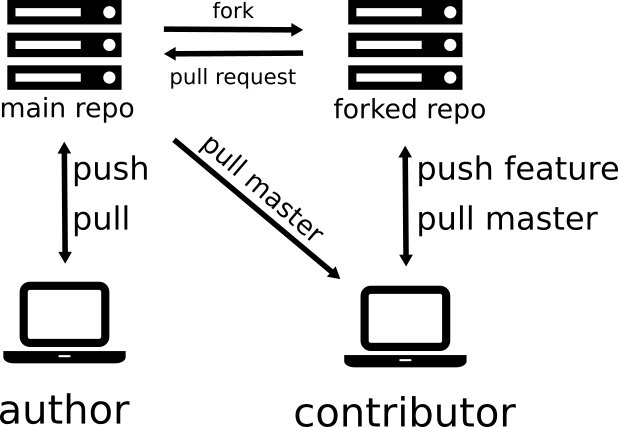
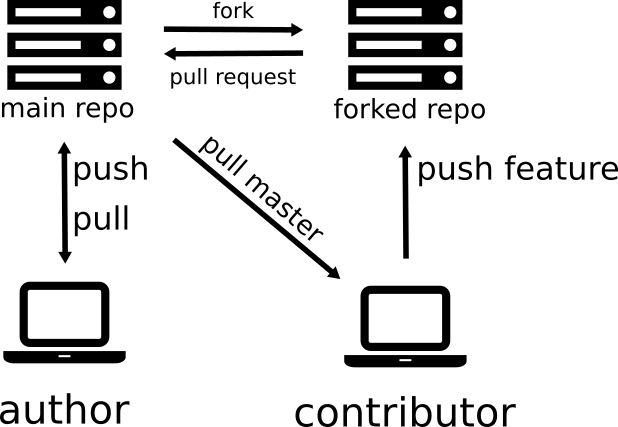
add notes for pulling from upsteam etc

Changed region(s): [[0.6764, 0.4871, 0.9838, 0.548], [0.6456, 0.5785, 0.6764, 0.6393]]

diff --git a/slides/aml-02-012218-python-git-testing/index.html b/slides/aml-02-012218-python-git-testing/index.html
@@ -334,7 +334,7 @@ what they do to each of these five.
 
 ---
 
-# Commands - And what they do
+# git Commands
 
 .smaller[
 - .normal[`git add`]<br />
@@ -586,6 +586,15 @@ class: center
 ![:scale 50%](images/forks1.png)
 ???
 
+So what are pull requests for?
+Basically they allow you to contribute to a repository to which you
+don’t have write permissions.
+Let’s say you want to contribute to scikit-learn. Or to my slides.
+
+There’s the main repository, which we usually call “upstream”,
+scikit-learn/scikit-learn. You want to change something there, but you
+don’t have write permissions.
+
 ---
 class: center
 
@@ -594,14 +603,17 @@ class: center
 ![:scale 50%](images/forks2.png)
 ???
 
-
----
+What you can do is “fork” it on github – that’s a github concept,
+not a git concept. It’s just a clone that also lives on github.---
 class: center
 
 # Github pull request workflow
 <br />
 ![:scale 50%](images/forks3.png)
 ???
+To actually make any changes, you
+can then clone this fork locally, add a feature branch, make changes
+and push them.
 
 ---
 class: center
@@ -611,6 +623,13 @@ class: center
 ![:scale 50%](images/forks.png)
 ???
 
+Then you can ask the owner of the repository if they want to merge your
+changes. That's a pull request and allows the owner to "pull" in your
+changes into the main repository.
+
+So far, so good. Makes mostly sense, I think.
+There is a slight oddity in this workflow, though.
+
 ---
 class: center
 
@@ -618,6 +637,14 @@ class: center
 <br />
 ![:scale 60%](images/forks_master_feature.png)
 ???
+
+Usually you pull the current status from the master branch,
+and make some changes that you want to include. So you always pull master
+and push feature branches.
+So obviously thing in the upstream repository change. How do you get
+these changes onto your laptop? 
+If the original repository gets updated, there is way to directly update your fork.
+
 ---
 class: center
 
@@ -625,28 +652,7 @@ class: center
 <br />
 ![:scale 60%](images/forks_master_feature2.png)
 ???
-What are pull requests for?
-Basically they allow you to contribute to a repository to which you
-don’t have write permissions.
-Let’s say you want to contribute to scikit-learn.
-There’s the main repository, which we usually call “upstream”,
-scikit-learn/scikit-learn. You want to change something there, but you
-don’t have write permissions.
-What you can do is “fork” it on github – that’s a github concept,
-not a git concept. It’s just a clone that also lives on github. You
-can then clone this fork locally, add a feature branch, make changes
-and push them.
-Then you can ask the owners of the repository if they want to merge your
-changes with a pull request.
-
-
---
-
-???
-
-There is a bit of a weird asymmetry here, though.
-So obviously thing in the upstream repository change. How do you get
-these changes onto your laptop? You have to add upstream as an additional
+You have to add upstream as an additional
 remote, and then you can pull from there.
 You can create new features on top, and push the feature branches to
 your fork (which is usually the “origin” remote).
@@ -655,7 +661,6 @@ updated and there is no point in pushing to it, so it will just sit there
 and rot. I think that’s kind of weird, but that’s how github works.
 So you always pull from upstream to get their changes, and push to
 your fork.
-
 ---
 class: center, middle
 
